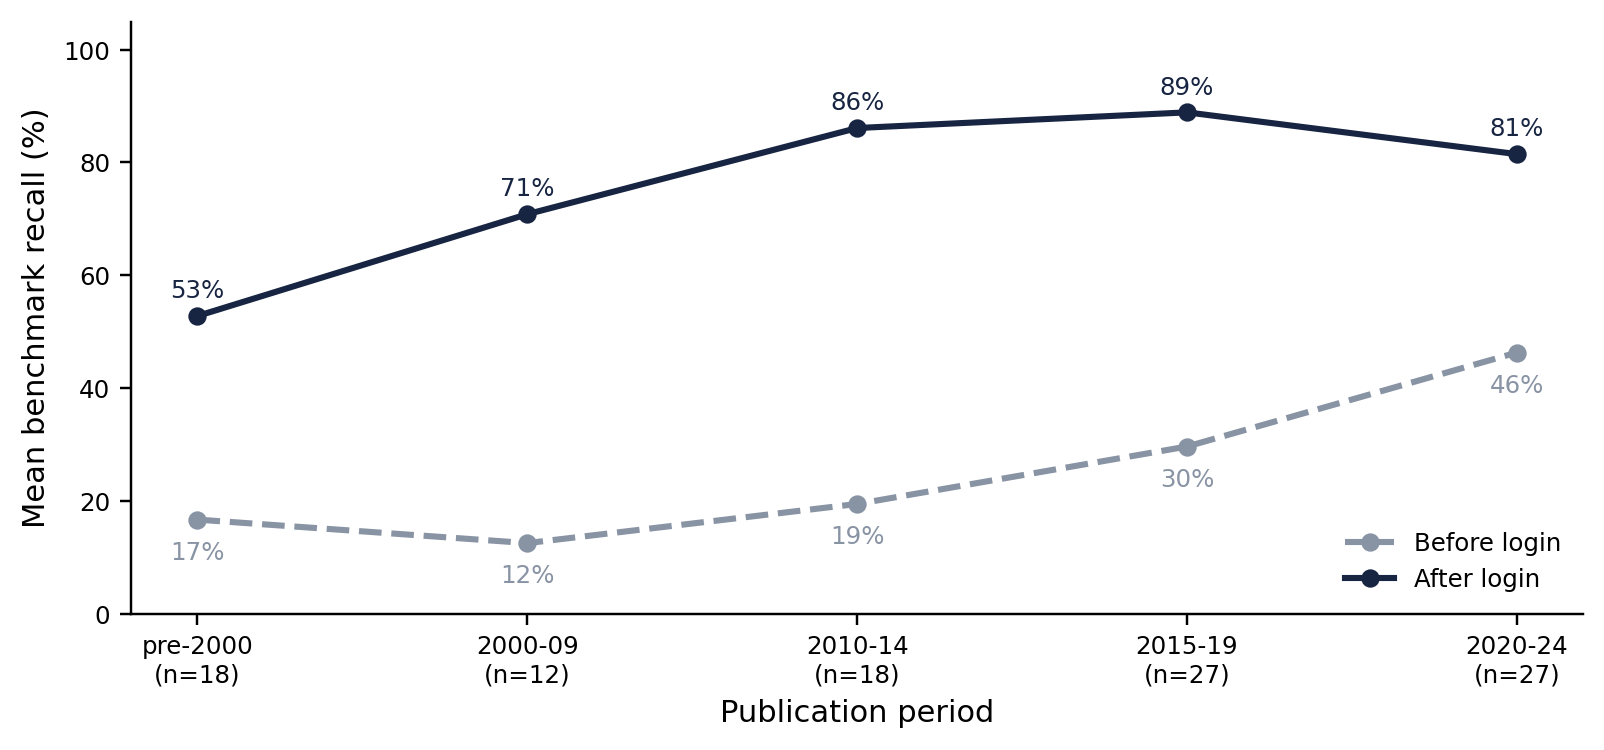
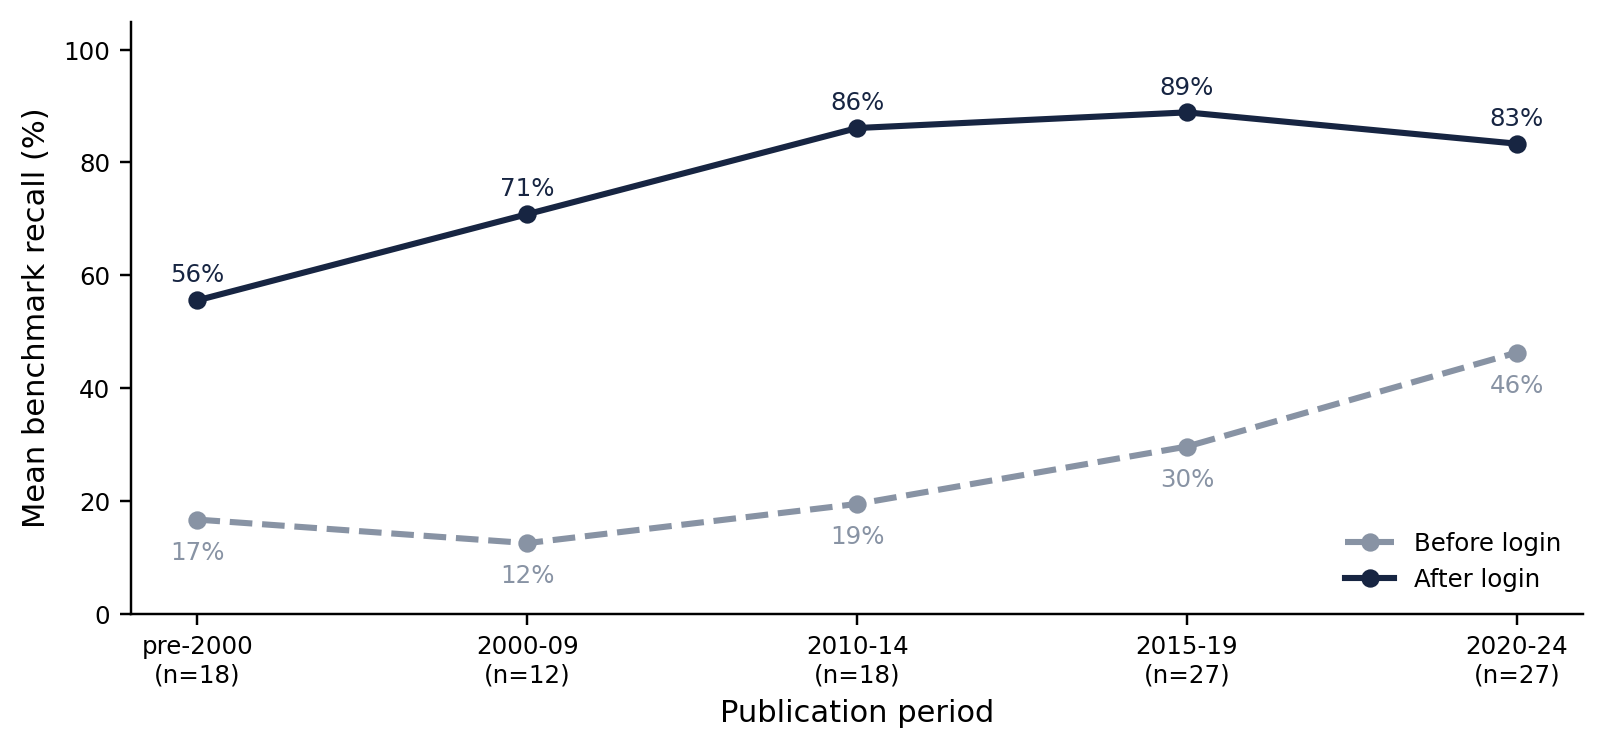
Correct Claude authenticated benchmark matches to 79

Changed region(s): [[0.0935, 0.276, 0.3117, 0.4293], [0.7481, 0.1227, 0.9663, 0.2147]]

diff --git a/Data/authentication/README.md b/Data/authentication/README.md
@@ -1,0 +1,16 @@
+# Paired authentication search
+
+`login_recall.csv` counts matches to the 102-paper benchmark, not every article
+the systems included. `per_paper_matches.csv` and `benchmark_matches.json`
+provide the underlying `SPxxx` assignments; the original reports are in
+`raw_data/`.
+
+Claude Code's authenticated report lists 80 included articles. Title and
+author matching against the benchmark identifies 79 distinct benchmark
+articles. Its Collier and Lilley (1994) article, *Forecasting thunderstorm
+initiation in north-west Europe using thermodynamic indices, satellite and
+radar data*, is outside the benchmark. The 79 include SP004 (McCallum and
+Waters, 1993, report row 2) and SP077 (Steeneveld and Peerlings, 2020, report
+row 58), which were omitted from an earlier match list. Eleven further
+candidates that Claude marked unverified are not counted. The resulting
+paired counts are Codex 42 to 82 and Claude Code 15 to 79.
